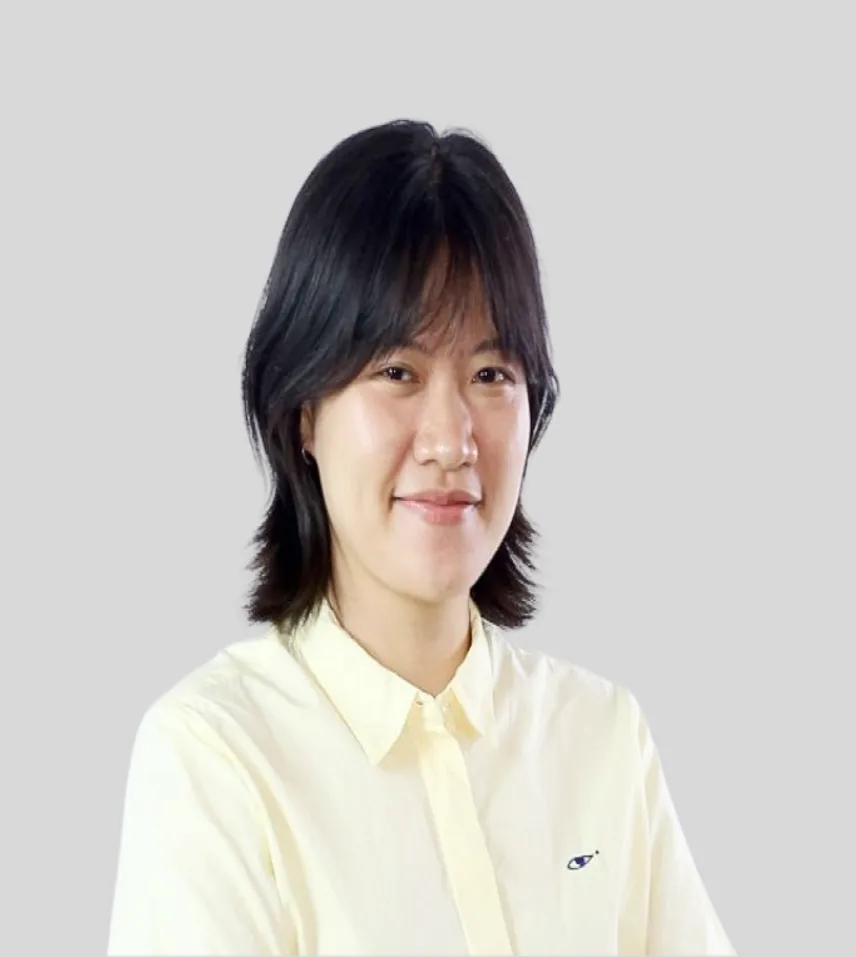
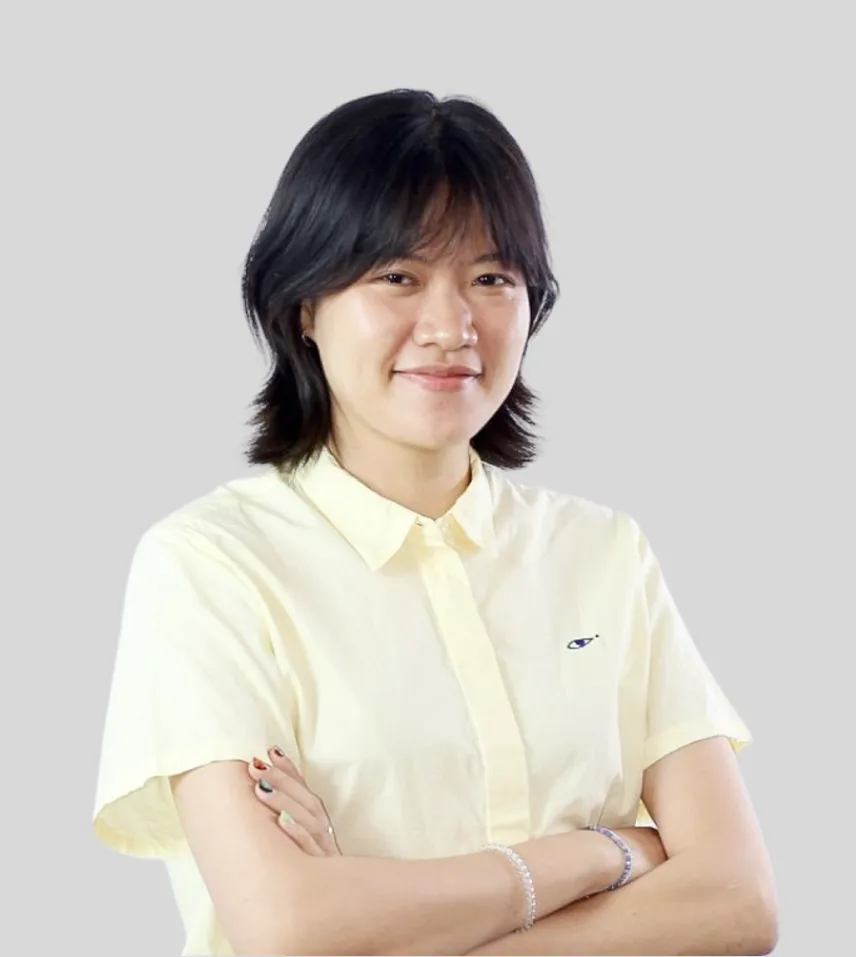
fix(services): correct five portraits; end each deck with a View All card
- Re-bake Van, Tien (D&D), Tuan (IT Ops) and Nga (People) with the Figma
  stretch. Their source files are distorted, and the Figma stretch
  corrects them: the IT Ops Tuan file is 1.13 wider than the Software
  copy of the same photo.
- Narrow the Linh Ngo file (IT Ops) by 1/1.13 before the crop. The file
  is from the same set.
- Set ASSET_VERSION to 21. The 10 files are in the staging bucket.
- Selected Work ends with a View All card, as Proven Results does. The
  header keeps only the badge. The three-card decks (Software, Crunch,
  IT Ops) now pin at 1280x720, 1536x730 and 1920x1080.
- Move the star mark to components/ui/StarMark.tsx for both decks.

Record rulings 19aa-19ab in the adapter.

diff --git a/components/services/SelectedWork.tsx b/components/services/SelectedWork.tsx
@@ -8,6 +8,7 @@ import Button from '../ui/Button';
 import Container from '../ui/Container';
 import Reveal, { RevealChild } from '../ui/Reveal';
 import SectionBadge from '../ui/SectionBadge';
+import StarMark from '../ui/StarMark';
 import type { WorkCard } from '../../content/services/types';
 import { ArrowRightIcon, TagChip } from './parts';
 
@@ -15,8 +16,10 @@ import { ArrowRightIcon, TagChip } from './parts';
  * "Selected Work" — Software 3707:5974, and the cards Figma places to the right
  * of each page (3707:6041 and others).
  *
- * The badge and "View All Brochure" sit on one line, and 64px below them a row
- * of 571x800 cards runs past the right edge of the page. Each card is a 550px
+ * Figma puts the badge and "View All Brochure" on one line. Here the badge is
+ * alone, and "View All Brochure" is a blue end card after the work cards, as on
+ * Proven Results (user, 2026-09-30). 64px below the badge a row of 571x800 cards
+ * runs past the right edge of the page. Each card is a 550px
  * picture over a 250px Primary panel with two chips and a Display-sm title,
  * with a 12px radius and Shadow-sm.
  *
@@ -28,9 +31,10 @@ import { ArrowRightIcon, TagChip } from './parts';
  * frame. A drag on the pinned row moves the page scroll. Only the row pins, not
  * the header line.
  *
- * The pin needs a row wider than the column. Three cards fit a 1792px column,
- * so at 1920 a three-card page shows the plain row (`measureTrack` returns
- * null). Below lg, and with reduced motion, the row is a swipe rail with snap.
+ * The pin needs a row wider than the column. Without the end card, three cards
+ * scaled to a 730px-high window fit a 1536px column, and the page did not pin.
+ * With it, every deck has at least four cards and pins at every desktop size.
+ * Below lg, and with reduced motion, the row is a swipe rail with snap.
  *
  * Figma cuts one AI Insurance title with an ellipsis. The title is built in
  * full and clamped to two lines, and the slip is flagged.
@@ -105,6 +109,47 @@ const PinnedCard: React.FC<{
   );
 };
 
+/**
+ * The deck's end card, as Proven Results has one (user, 2026-09-30). Figma
+ * draws no such card: it puts "View All Brochure" in the header line. The card
+ * makes the deck one card wider, so a three-card deck (Software, Crunch, IT Ops)
+ * also overflows the column and pins, at 1280x720 and 1536x730 too.
+ */
+const VIEW_ALL = 'justify-between px-fig-24 py-fig-32 lg:px-fig-40 lg:py-fig-40';
+
+const ViewAllBody: React.FC = () => (
+  <>
+    <StarMark className="h-[56px] w-[56px] rotate-[91deg] lg:h-[100px] lg:w-[100px]" />
+    <Button
+      to={ROUTES.services}
+      variant="secondary"
+      size="lg"
+      onDark
+      className="w-full border-transparent shadow-fig-xs lg:text-btn-lg"
+      icon={<ArrowRightIcon />}
+    >
+      View All Brochure
+    </Button>
+  </>
+);
+
+/** The end card on the pinned row. It enters as the other cards do. */
+const PinnedViewAll: React.FC<{ progress: MotionValue<number>; win: [number, number] | null | undefined }> = ({
+  progress,
+  win,
+}) => {
+  const { cardY } = useCardEntrance(progress, win);
+  return win ? (
+    <motion.article className={`${CARD} ${VIEW_ALL}`} style={{ y: cardY }}>
+      <ViewAllBody />
+    </motion.article>
+  ) : (
+    <motion.article className={`${CARD} ${VIEW_ALL}`}>
+      <ViewAllBody />
+    </motion.article>
+  );
+};
+
 const SelectedWork: React.FC<{ cards: WorkCard[]; label: string }> = ({ cards, label }) => {
   const wrapRef = useRef<HTMLDivElement>(null);
   const columnRef = useRef<HTMLDivElement>(null);
@@ -127,22 +172,13 @@ const SelectedWork: React.FC<{ cards: WorkCard[]; label: string }> = ({ cards, l
     // section instead of the viewport.
     <section id="selected-work" className="relative overflow-x-clip bg-surface py-fig-64 lg:py-fig-120">
       <Container>
-        <Reveal as="div" stagger={STAGGER.base} className="flex items-center justify-between gap-fig-16">
+        {/* "View All Brochure" is the deck's end card now, so the header keeps
+            only the badge (user, 2026-09-30). */}
+        <Reveal as="div" stagger={STAGGER.base} className="flex items-center">
           <RevealChild as="span" y={20} duration={SEC.revealFast}>
             <SectionBadge as="h2" size="sm">
               Selected Work
             </SectionBadge>
-          </RevealChild>
-          <RevealChild as="span" y={20} duration={SEC.revealFast}>
-            <Button
-              to={ROUTES.services}
-              variant="tertiary"
-              size="lg"
-              className="px-fig-8 lg:px-fig-24 lg:text-btn-lg"
-              icon={<ArrowRightIcon />}
-            >
-              View All Brochure
-            </Button>
           </RevealChild>
         </Reveal>
       </Container>
@@ -203,6 +239,29 @@ const SelectedWork: React.FC<{ cards: WorkCard[]; label: string }> = ({ cards, l
                       <CardBody card={card} />
                     </motion.article>
                   ),
+                )}
+                {pinned ? (
+                  <PinnedViewAll key="p-view-all" progress={progress} win={geom.windows[cards.length]} />
+                ) : (
+                  <motion.article
+                    key="r-view-all"
+                    className={`${CARD} ${VIEW_ALL} snap-start`}
+                    initial={enabled ? { y: 28, opacity: 0 } : { opacity: 0 }}
+                    whileInView={{ y: 0, opacity: 1 }}
+                    viewport={{ once: true, amount: 'some' }}
+                    transition={{
+                      y: enabled
+                        ? { duration: SEC.revealFast, ease: EASE.reveal, delay: Math.min(cards.length, 3) * STAGGER.base }
+                        : { duration: 0 },
+                      opacity: {
+                        duration: SEC.revealFast,
+                        ease: EASE.reveal,
+                        delay: enabled ? Math.min(cards.length, 3) * STAGGER.base : 0,
+                      },
+                    }}
+                  >
+                    <ViewAllBody />
+                  </motion.article>
                 )}
               </motion.div>
             </div>

diff --git a/components/ProvenResults.tsx b/components/ProvenResults.tsx
@@ -5,6 +5,7 @@ import { ASSETS, srcSetOf, type ImageSource } from '../assets';
 import Container from './ui/Container';
 import Button from './ui/Button';
 import SectionBadge from './ui/SectionBadge';
+import StarMark from './ui/StarMark';
 import CarouselDots from './ui/CarouselDots';
 import Reveal, { RevealChild } from './ui/Reveal';
 import { EASE, MOTION, PINNED_H, PIN_FOLLOW, SEC, STAGGER, STICKY_TOP, useMinWidth, useMotionEnabled } from '../lib/motion';
@@ -111,23 +112,6 @@ const CARD_H = 'h-[314px] md:h-auto md:aspect-[580/751] lg:aspect-auto lg:h-[var
  * tallest the viewport ever gets, so a card sized in `vh` hides under the chrome.
  */
 const CARD_HEIGHT = 'min(751px, calc(100svh - 200px))';
-
-/** Figma 2943:1748 — a 100px star, drawn rotated. One path, so it inlines. */
-const StarMark: React.FC<{ className?: string }> = ({ className = '' }) => (
-  <svg
-    viewBox="0 0 100 100"
-    className={className}
-    fill="none"
-    xmlns="http://www.w3.org/2000/svg"
-    aria-hidden="true"
-    focusable="false"
-  >
-    <path
-      d="M36.8736 70.1062L49.9986 62.1895L63.1236 70.2103L59.6861 55.2103L71.2486 45.2103L56.0403 43.8562L49.9986 29.6895L43.9569 43.752L28.7486 45.1062L40.3111 55.2103L36.8736 70.1062ZM24.2694 87.502L31.0403 58.2312L8.33193 38.5437L38.3319 35.9395L49.9986 8.33533L61.6653 35.9395L91.6653 38.5437L68.9569 58.2312L75.7278 87.502L49.9986 71.9812L24.2694 87.502ZM71.8736 29.1687L74.0611 19.8978L66.6653 13.752L76.4569 12.9187L80.2069 4.16866L83.9569 12.9187L93.7486 13.752L86.3528 19.8978L88.5403 29.1687L80.2069 24.2728L71.8736 29.1687Z"
-      fill="#FFCE00"
-    />
-  </svg>
-);
 
 /** The pale chips over the blue caption. */
 const Tag: React.FC<{ children: React.ReactNode }> = ({ children }) => (

diff --git a/components/ui/StarMark.tsx b/components/ui/StarMark.tsx
@@ -1,0 +1,23 @@
+import React from 'react';
+
+/**
+ * Figma 2943:1748 — a 100px star, drawn rotated. One path, so it inlines. The
+ * View All card of Proven Results and of each service page's Selected Work use it.
+ */
+const StarMark: React.FC<{ className?: string }> = ({ className = '' }) => (
+  <svg
+    viewBox="0 0 100 100"
+    className={className}
+    fill="none"
+    xmlns="http://www.w3.org/2000/svg"
+    aria-hidden="true"
+    focusable="false"
+  >
+    <path
+      d="M36.8736 70.1062L49.9986 62.1895L63.1236 70.2103L59.6861 55.2103L71.2486 45.2103L56.0403 43.8562L49.9986 29.6895L43.9569 43.752L28.7486 45.1062L40.3111 55.2103L36.8736 70.1062ZM24.2694 87.502L31.0403 58.2312L8.33193 38.5437L38.3319 35.9395L49.9986 8.33533L61.6653 35.9395L91.6653 38.5437L68.9569 58.2312L75.7278 87.502L49.9986 71.9812L24.2694 87.502ZM71.8736 29.1687L74.0611 19.8978L66.6653 13.752L76.4569 12.9187L80.2069 4.16866L83.9569 12.9187L93.7486 13.752L86.3528 19.8978L88.5403 29.1687L80.2069 24.2728L71.8736 29.1687Z"
+      fill="#FFCE00"
+    />
+  </svg>
+);
+
+export default StarMark;

diff --git a/assets.ts b/assets.ts
@@ -17,7 +17,7 @@ const R2 = R2_STAGING;
 // Cache-busting version. The R2 public dev URL sends no Cache-Control header, so
 // browsers cache assets heuristically and serve stale copies after a re-upload.
 // Bump ASSET_VERSION whenever you replace an asset in the bucket to force a refetch.
-const ASSET_VERSION = '20';
+const ASSET_VERSION = '21';
 const a = (path: string) => `${R2}${path}?v=${ASSET_VERSION}`;
 
 /** One `srcset` candidate: a URL and the intrinsic width it was encoded at. */

diff --git a/.claude/figma-adapter.md b/.claude/figma-adapter.md
@@ -1165,3 +1165,21 @@ home `Contact` with the hub blurb (3257:2599) and no offices.
     - **Open, for the user:** at 1280 (268px cards) and 1440 (308px cards), "Dang Chuan NGUYEN" and "Guillaume
       SARKOZY" wrap to two lines at H2, and the taller plate covers the chin. The names fit on one line at H2 only
       from about 1800px. Figma draws three 428px cards with the fourth off the frame, so it does not show this case.
+
+**User review (2026-09-30).**
+
+19aa. **Some team source files are distorted, and Figma's stretch corrects them.** Tuan Ngo's IT Ops file
+    (1024x1024) is 1.13 wider than the Software copy of the same photo (image registration). Figma stretches it into a
+    427x479 box, which narrows it by 1.12. So the `unstretch` rule (use the file's own ratio) undid Figma's correction
+    for Van, Tien (D&D), Tuan (IT Ops) and Nga (People), and they looked narrow. They now follow Figma's geometry. Their
+    heads measure about 1.03 width to height, against 1.04 for the Software Tuan.
+    - Linh Ngo's IT Ops file is from the same 1024x1024 set, but Figma crops it (no stretch), so Figma shows it wide
+      too. The file is narrowed by 1/1.13 (the factor measured on Tuan) before the crop. This is an estimate.
+    - All other portraits already follow Figma at the file's own ratio. Guillaume's file is 0.957, and Figma draws
+      0.956.
+    - `ASSET_VERSION` is 21 for this upload (10 files).
+19ab. **Selected Work ends with a View All card, as Proven Results does (user).** The header keeps only the badge. The
+    blue end card has the star mark and a white "View All Brochure" button to `/services`. Figma draws no such card.
+    Without it, the three-card decks (Software, Crunch, IT Ops) did not pin at 1536x730, 1280x720 or 1920x1080: three
+    cards scaled to fit the window height also fit the width. With it, Software travels 478px at 1280x720, 252px at
+    1536x730 and about 600px at 1920x1080 (4 x 570 + 3 x 40 = 2400 against the 1792px column). All seven pages have the card.
